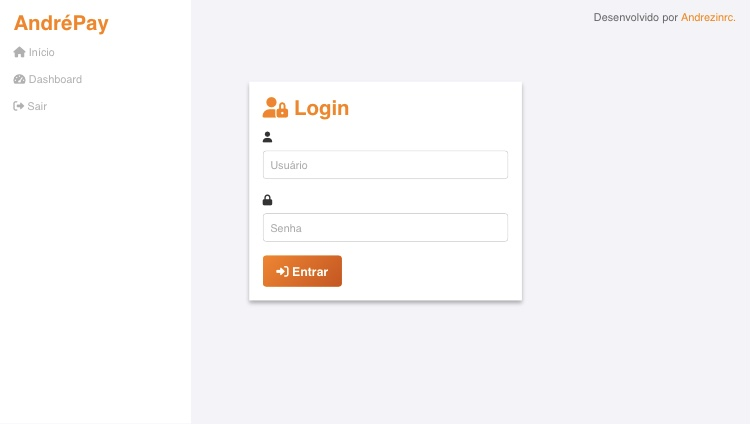
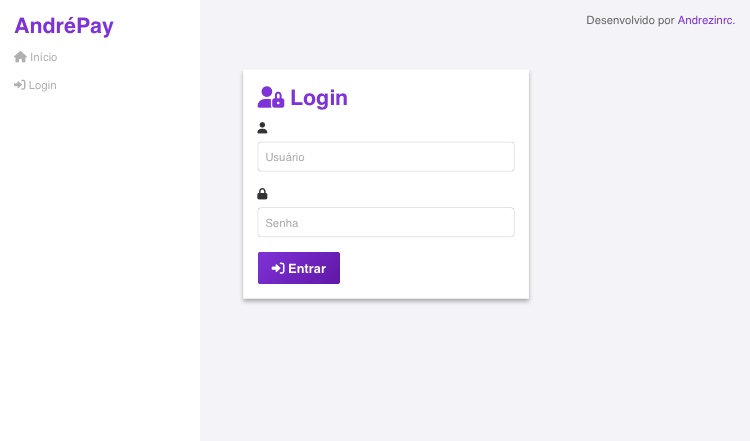
Adiciona botão hambúrguer para dispositivos móveis

diff --git a/app/static/styles.css b/app/static/styles.css
@@ -29,10 +29,13 @@ h2{
     background-color: #fff;
 }
 .titulo h2{
-    color: #ff7f00;
+    color: #8A2BE2;
 }
 span{
-    color: #ff7f00;
+    color: #8A2BE2;
+}
+.hamburguer{
+    display: none;
 }
 .menu-desk{
     display: flex;
@@ -50,12 +53,12 @@ span{
 .boas-vindas-dash{
     width: auto;
     max-width: 500px;
-    background: linear-gradient(135deg, #ff7f00, #d44d00);
     color: #fff;
     padding: 15px;
     border-radius: 10px;
     margin-bottom: 20px;
     margin: 0 auto;
+    background: linear-gradient(135deg, #8A2BE2, #6A0DAD);
     box-shadow: 0 2px 5px rgba(0, 0, 0, 0.1);
 }
 main { 
@@ -68,7 +71,7 @@ main {
     display: flex;
     flex-direction: column;
     height: 100vh;
-    padding: 20px;
+    padding: 100px 50px;
 }
 h1 {
     font-size: 36px;
@@ -88,8 +91,6 @@ p{
     color: #333;
 }
 form{
-    position: relative;
-    top: 20%;
     width: 100%;
     max-width: 400px;
     margin: 0 auto;
@@ -98,7 +99,7 @@ form{
     box-shadow: 0 4px 6px rgba(0, 0, 0, 0.3);
 }
 form h2{
-    color: #ff7f00;
+    color: #8A2BE2;
 }
 input[type="text"], input[type="password"], input[type="number"] {
     width: 100%;
@@ -115,7 +116,7 @@ input[type="text"]:focus, input[type="password"]:focus, input[type="number"]:foc
 }
 
 button {
-    background: linear-gradient(135deg, #ff7f00, #d44d00);
+    background: linear-gradient(135deg, #8A2BE2, #6A0DAD);
     color: white;
     padding: 12px 20px;
     border: none;
@@ -126,9 +127,9 @@ button {
 }
 
 button:hover {
-    background: linear-gradient(135deg, #d44d00, #b34700);
     transform: translateY(-2px);
-    box-shadow: 0 5px 10px rgba(255, 127, 0, 0.3);
+    background: linear-gradient(135deg, #9B4DFF, #5C0C8C);
+    box-shadow: 0 5px 10px rgba(138, 43, 226, 0.3);
 }
 
 button:disabled {
@@ -170,12 +171,13 @@ ul{
     color: #B0B0B0; 
     box-shadow: 0 2px 5px rgba(0, 0, 0, 0.1);
 }
-
+.historico-pagamentos li:hover{
+    transform: translateY(-2px);
+}
 .historico-pagamento li a{
-   color: #ff7f00;
+   color: #8A2BE2;
 }
 .historico-pagamento li h4 {
-    color: #ff007f;
     margin: 0 0 5px;
 }
 
@@ -201,7 +203,7 @@ footer p{
     color: #666;
 }
 footer p span{
-    color: #ff7f00;
+    color: #8A2BE2; 
 }
 @media screen and (max-width: 1024px){
     body{
@@ -211,6 +213,40 @@ footer p span{
     .container{
         width: 100%;
         height: auto;
+    }
+
+    .container-titulo-hamburguer{
+        width: 100%;
+        display: flex;
+        justify-content: space-between;
+        align-items: center;
+    }
+    .hamburguer {
+    display: block;
+    width: 40px;
+    height: 40px;
+    border-radius: 5px;
+}
+
+.line {
+    display: flex;
+    width: 30px;
+    height: 4px;
+    background-color: #333;
+    border-radius: 3px;
+    margin: 6px;
+    transform-origin: 30px;
+}
+    .nav-bar{
+        display: none;
+    }
+    .menu-desk{
+        display: flex;
+        flex-direction: column;
+        gap: 20px;
+    }
+    .abrirMenu {
+        display: block;
     }
     
 }
@@ -228,7 +264,9 @@ footer p span{
     .boas-vidas-dash{
         font-size: 1.5rem;
     }
-    form {
-        top: auto;
+}
+@media screen and (max-width: 420px){
+    .container{
+        padding: 80px 20px;
     }
 }

diff --git a/app/templates/base.html b/app/templates/base.html
@@ -1,18 +1,25 @@
 <!DOCTYPE html>
 <html lang="pt-br">
 <head>
-    <meta charset="UTF-8">
-    <meta name="viewport" content="width=1100, initial-scale=1">
+   <meta name="viewport" content="width=width-device-width, initial-scale=1">
     <title>{% block title %}Sistema de Pagamento{% endblock %}</title>
     <link rel="stylesheet" href="{{ url_for('static', filename='styles.css') }}">
     <link href="https://cdnjs.cloudflare.com/ajax/libs/font-awesome/6.0.0-beta3/css/all.min.css" rel="stylesheet">
 </head>
 <body>
     <header class="cabecalho">
-        <div class="titulo">
-            <h2>AndréPay</h2>
+        <div class="container-titulo-hamburguer">
+            <div class="titulo">
+                <h2>AndréPay</h2>
+            </div>
+
+            <div class="hamburguer" id="btn-menu">
+                <span class="line"></span>
+                <span class="line"></span>
+                <span class="line"></span>
+            </div>
         </div>
-        <nav class="nav-bar">
+        <nav class="nav-bar" id="menu">
             <ul class="menu-desk">
                 <li class="nav-list"><a class="nav-link" href="{{ url_for('index') }}"><i class="fas fa-home"></i> Início</a></li>
                 {% if current_user.is_authenticated %}
@@ -32,5 +39,14 @@
     <footer>
         <p>Desenvolvido por <span>Andrezinrc.</span></p>
     </footer>
+
+    <script>
+        let btnMenu = document.getElementById("btn-menu");
+        let menu = document.getElementById("menu");
+
+        btnMenu.addEventListener("click", () => {
+            menu.classList.toggle('abrirMenu');
+        });
+    </script>
 </body>
 </html>

diff --git a/app/templates/dashboard.html b/app/templates/dashboard.html
@@ -27,8 +27,13 @@
     {% for payment in payments %}
         <li>
             <i class="fas fa-check-circle"></i> 
-            R$ {{ payment.amount }} - Código Pix: <a style="color: #ff7f00;">{{ payment.pix_code }}</a> - 
-            <strong>Status: {{ payment.status }}</strong>
+            R$ {{ payment.amount }} - Código Pix: <a>{{ payment.pix_code }}</a> - 
+           {% if payment.status == "confirmado" %}                <strong style="color:  #388E3C;" >Status: {{ payment.status }}</strong>
+           {% elif payment.status == "pendente"  %}
+                <strong style="color: #FBC02D;">Status: {{ payment.status }}</strong>
+           {% else %}
+                <strong>Status: {{ payment.status }}</strong>
+           {% endif %}
         </li>
     {% endfor %}
     </ul>

diff --git a/app/templates/login.html b/app/templates/login.html
@@ -3,7 +3,7 @@
 {% block title %}Login{% endblock %}
 
 {% block content %}
-
+<div class="container">
     <form method="POST">
         <div>
              <h2><i class="fas fa-user-lock"></i> Login</h2>
@@ -19,7 +19,7 @@
         </div>
         <button type="submit"><i class="fas fa-sign-in-alt"></i> Entrar</button>
     </form>
-
+</div>
     {% with messages = get_flashed_messages(with_categories=true) %}
         {% if messages %}
             {% for category, message in messages %}

diff --git a/app/routes.py b/app/routes.py
@@ -22,6 +22,7 @@ def dashboard():
                            balance=current_user.balance,
                            payments=payments)
 
+
 @app.route("/login", methods=["GET", "POST"])
 def login():
     if request.method == "POST":
